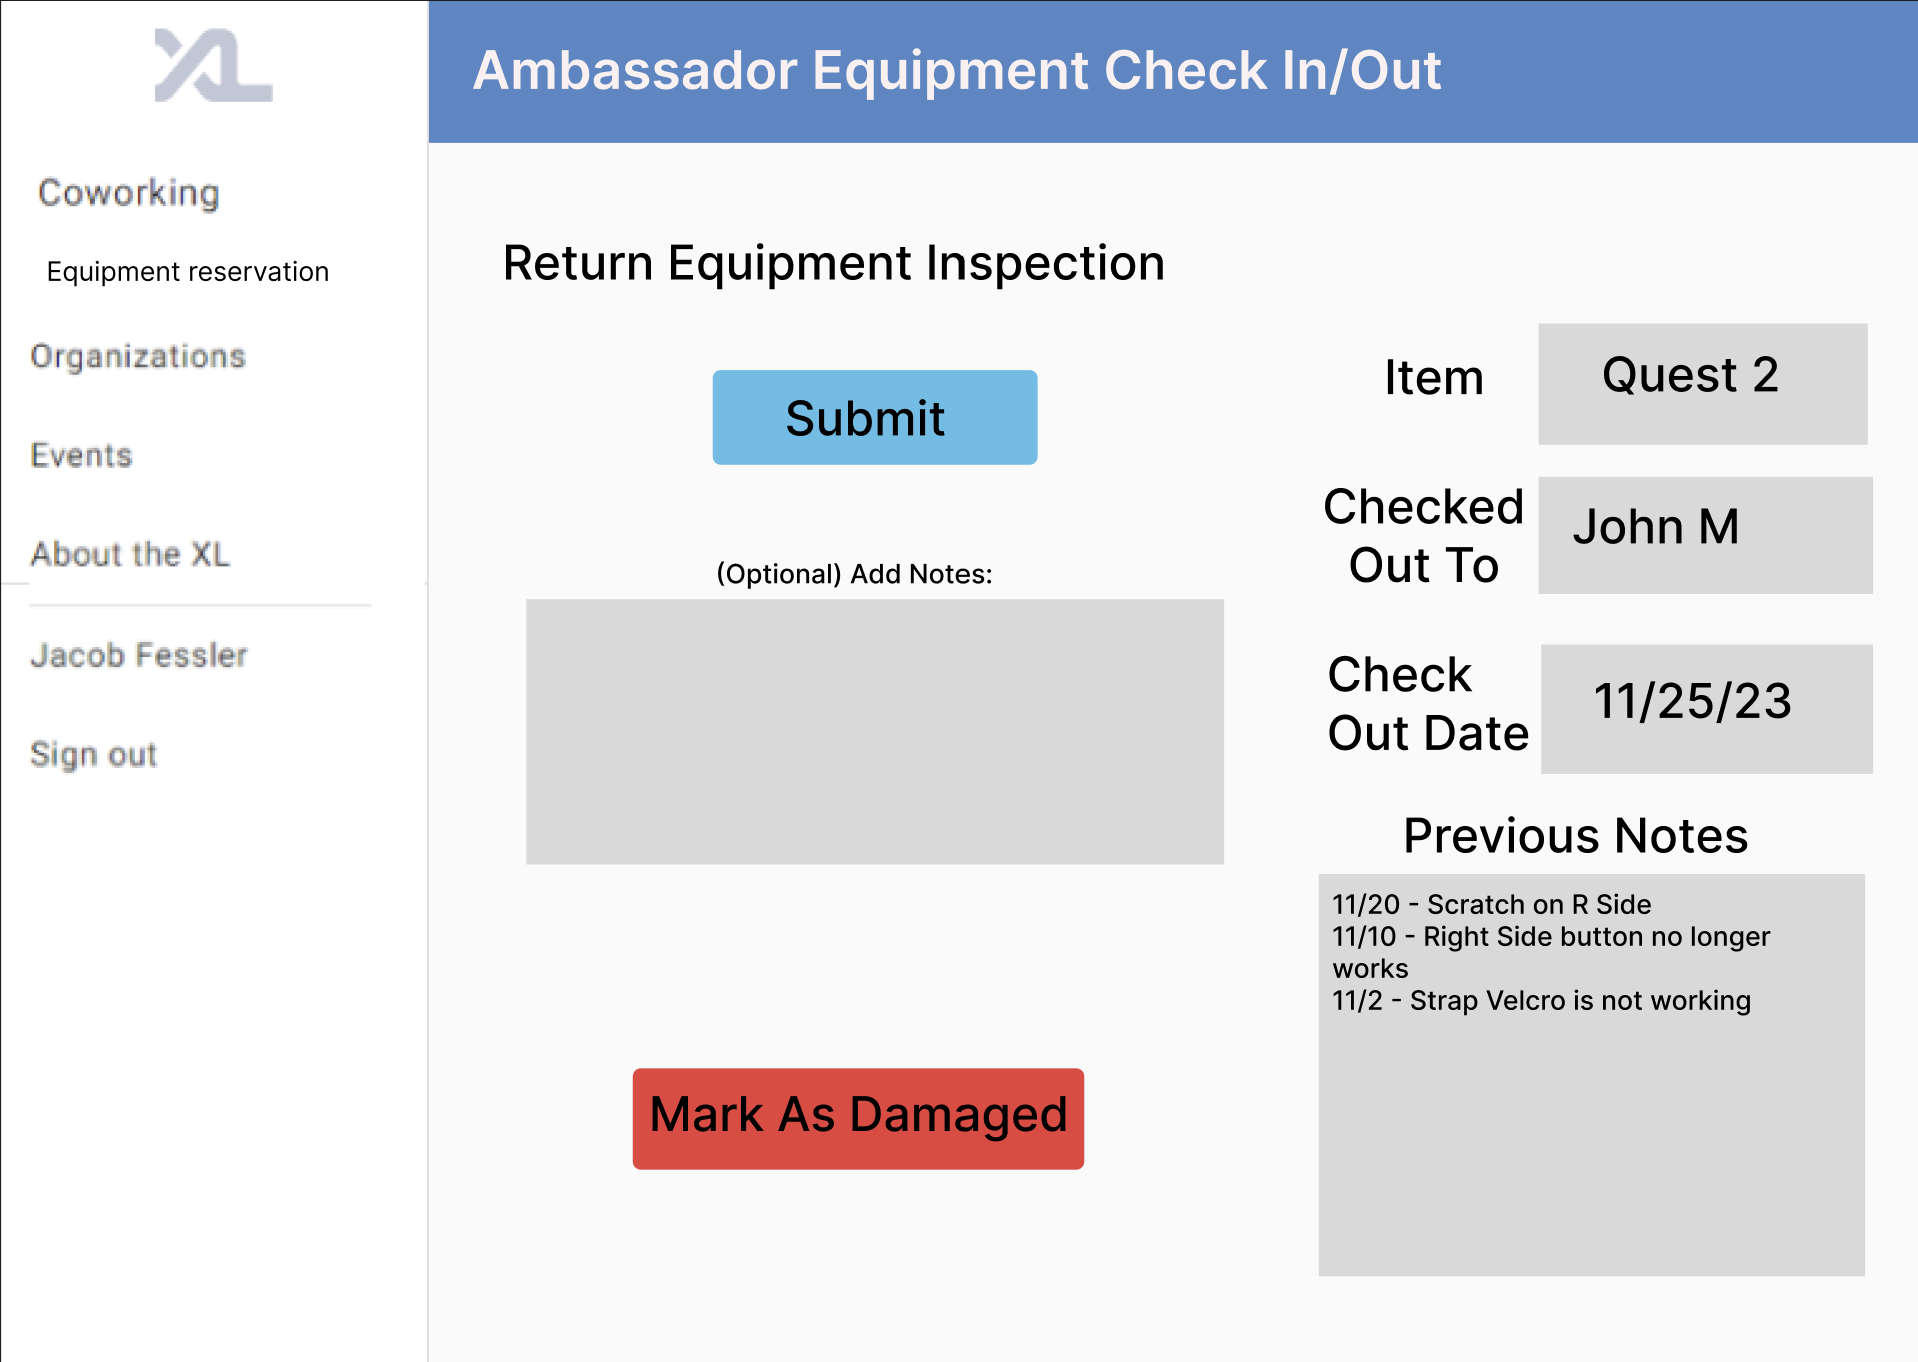
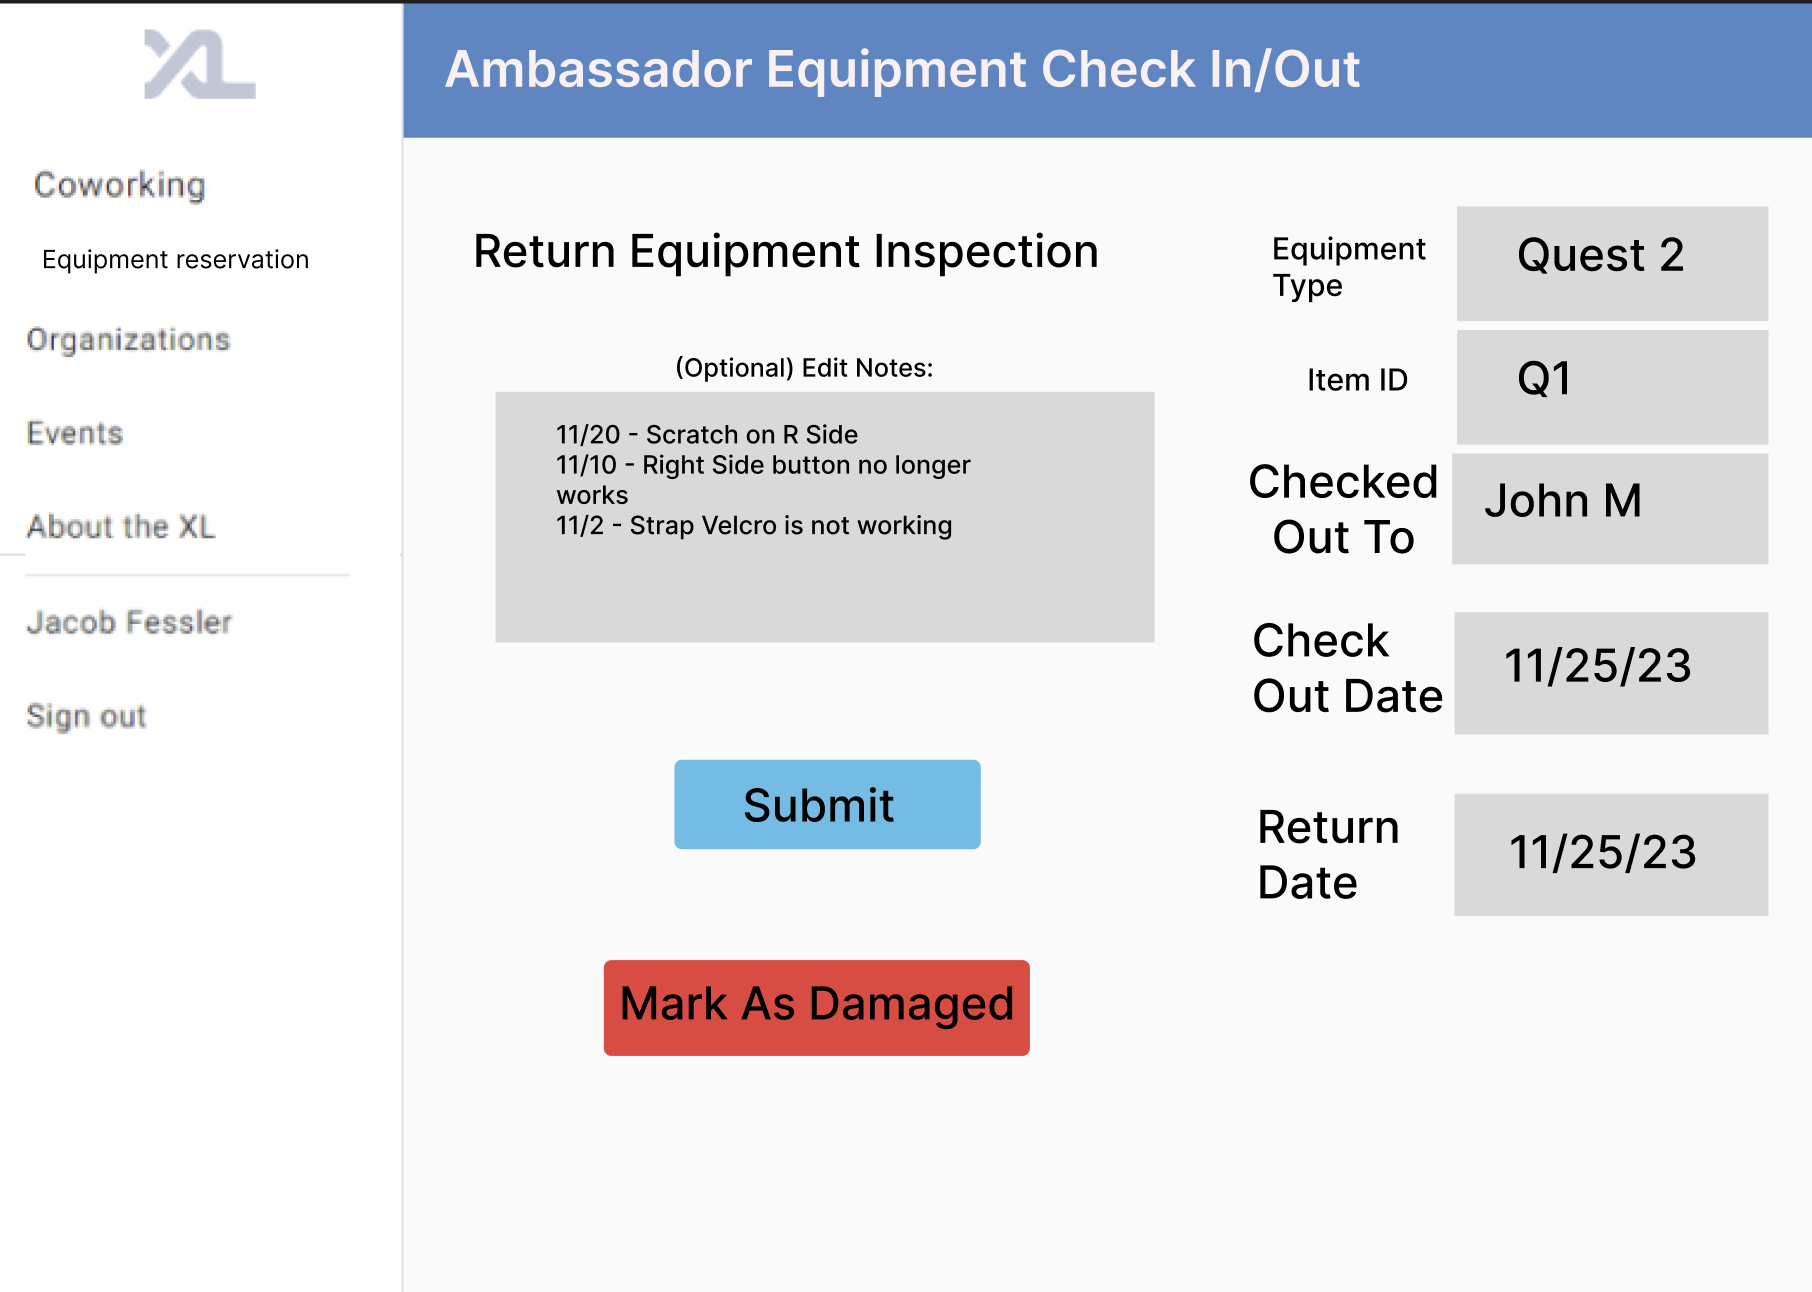
Edit Views to Incorporate Types and Items

diff --git a/docs/equipment-reservation-system-design-doc.md b/docs/equipment-reservation-system-design-doc.md
@@ -118,9 +118,13 @@ Equipment reservation is added to the navbar menu.  Before checking out an item 
 
 ![Root User Equipment List](./images/User_Admin_View.png)
 
-User Admin's will have this view of equipment items as well as if they are marked as damanged. They can toggle the damaged flag as well as view any notes or delete the equipment. They can also create a new equpiment using the "Create" button and filling out the following form.
+User Admin's will have this view of equipment types. They can create a new equpiment using the "Create" button and filling out the following form. They can also click on the "View/Edit" button to add Equipment Items and change details about the equipment type.
 
-![Root User Create Equipment](./images/User_Admin_Create_Equipment.png)
+![Root User Create Equipment](./images/User_Admin_Create_Equipment_Type.png)
+
+![Root User Equip Type Edit](./images/User_Admin_Edit_Equipment_Type.png)
+
+In this view, the Admin can edit the type fields, add/delete new items, view (possibly edit) notes, and flag/unflag items as damaged. Flagging an item as damaged will remove it from the available item pool that students can reserve from.
 
 ### Story D
 ![image info](./images/items.png)
@@ -143,10 +147,10 @@ Both Amy Ambassador and Sally Student can view a page with availability of a typ
 
 Ambassadors will see an "Ambassadors" button to allow them to navigate to the ambassadors equipment page.
 
-![Ambassador Main Page](./images/Equipment_Check_In_Out_Ambassadors.png)
+![Ambassador Main Page](./images/Ambassador_CheckIn-Out.png)
 
 In this view, ambassadors will see 2 lists, one for pending check outs, or reservations, that are upcoming, and can click on the "Lend" button when the student comes to pick up their equipment. The other list will contain the equipment that has been checked out along with the due date that it is back. When a student drops  off their used equipment, the ambassador will click on the "return" button and will be redirected to the inspection page.
 
 ![Ambassador Inspection Form](./images/Ambassador_Inspection.png)
 
-This view will contain the same information as the previous, but will also include any previous notes on product damage. The Ambassador can also add additional notes if any extra wear/tear is noticed. If none, or after adding notes, the ambassador can click the "Submit" button to complete the check-in. Additionally, if the equipment is damaged beyond use, the ambassador can click the "Mark As Damaged" button, then should communicate with the admin to discuss next steps.
+This view will contain the same information as the previous, but will also include any previous notes on product damage. The Ambassador can edit the notes if any extra wear/tear is noticed. If none, or after adding notes, the ambassador can click the "Submit" button to complete the check-in. Additionally, if the equipment is damaged beyond use, the ambassador can click the "Mark As Damaged" button, then should communicate with the admin to discuss next steps.
